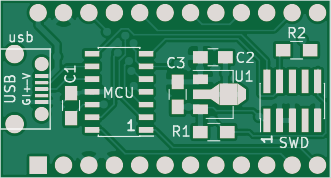
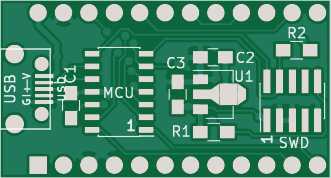
atsamd11_pro_micro tested out well

Changed region(s): [[0.1208, 0.3371, 0.2115, 0.618], [0.0302, 0.1685, 0.1208, 0.2528]]

diff --git a/atsamd11_pro_micro/pcb/atsamd11_pro_micro.py b/atsamd11_pro_micro/pcb/atsamd11_pro_micro.py
@@ -86,7 +86,7 @@ mcu = myelin_kicad_pcb.Component(
         Pin( 2, "PA08", ["mcu_MOSI_TDI"]),  # sercom0.2/1.2
         Pin( 3, "PA09", ["mcu_SCK_TMS"]),  # sercom0.3/1.3
         Pin( 4, "PA14", ["mcu_MISO"]),  # sercom0.0/2.0
-        Pin( 5, "PA15", ["mcu_GPIO_D18"]),  # sercom0.1/2.1
+        Pin( 5, "PA15", ["mcu_GPIO_D18_TDO"]),  # sercom0.1/2.1 == JTAG TDO
         Pin( 6, "PA28_nRESET", ["mcu_RESET"]),
         Pin( 7, "PA30", ["SWCLK"]),
         Pin( 8, "PA31", ["SWDIO"]),
@@ -94,8 +94,8 @@ mcu = myelin_kicad_pcb.Component(
         Pin(10, "PA25", ["USBDP"]),
         Pin(11, "GND", ["GND"]),
         Pin(12, "VDD", ["3V3"]),
-        Pin(13, "PA02", ["mcu_GPIO_D20"]),  # only gpio
-        Pin(14, "PA04", ["mcu_GPIO_D8"]),  # sercom0.2/0.0
+        Pin(13, "PA02", ["mcu_GPIO_D20_TCK"]),  # only gpio == JTAG TCK
+        Pin(14, "PA04", ["mcu_GPIO_D8_nSD_SEL"]),  # sercom0.2/0.0 == /SD_SEL
     ],
 )
 mcu_cap = myelin_kicad_pcb.C0805("100n", "GND", "3V3", ref="C1")
@@ -166,15 +166,15 @@ pro_micro = myelin_kicad_pcb.Component(
         Pin( 8, "D5_nOC4A_PC6",     ),
         Pin( 9, "D6_A7_OC4D_PD7",   ),
         Pin(10, "D7_PE6",           ),
-        Pin(11, "D8_A8_PB4",        ["mcu_GPIO_D8"]),  # /SD_SEL
+        Pin(11, "D8_A8_PB4",        ["mcu_GPIO_D8_nSD_SEL"]),  # /SD_SEL
         Pin(12, "D9_A9_nOC4B_PB5",  ["mcu_SS"]),   # /SS
         Pin(13, "D10_A10_OC4B_PB6", ),
         Pin(14, "D16_MOSI_PB2",     ["mcu_MOSI_TDI"]), # SPI (shared with JTAG)
         Pin(15, "D14_MISO_PB3",     ["mcu_MISO"]),     # SPI
         Pin(16, "D15_SCK_PB1",      ["mcu_SCK_TMS"]),  # SPI (shared with JTAG)
-        Pin(17, "D18_A0_PF7",       ["mcu_GPIO_D18"]), # JTAG TDO
+        Pin(17, "D18_A0_PF7",       ["mcu_GPIO_D18_TDO"]), # JTAG TDO
         Pin(18, "D19_A1_PF6",       ["mcu_SCK_TMS"]),  # JTAG (shared with SPI)
-        Pin(19, "D20_A2_PF5",       ["mcu_GPIO_D20"]), # JTAG TCK
+        Pin(19, "D20_A2_PF5",       ["mcu_GPIO_D20_TCK"]), # JTAG TCK
         Pin(20, "D21_A3_PF4",       ["mcu_MOSI_TDI"]), # JTAG (shared with SPI)
         Pin(21, "VCC",              ["3V3"]),
         Pin(22, "RST",              ["mcu_RESET"]),

diff --git a/atsamd11_pro_micro/README.md b/atsamd11_pro_micro/README.md
@@ -12,7 +12,11 @@ quick USB interface for some CPLD based project, which is pretty much
 all the time, and with any luck it should be able to double as a JTAG
 programming interface.
 
-Sent to oshpark.com for fabrication 2017-10-29.
+r1: Sent to oshpark.com for fabrication 2017-10-29.  Assembled and
+tested, and appears to work.  Functions fine as a USB CDC device.
+
+r2: Added SWCLK pullup, and extended the micro USB socket pads a
+little to make them easier to solder.
 
 ![PCB front](pcb/pcb-front.png)
 
